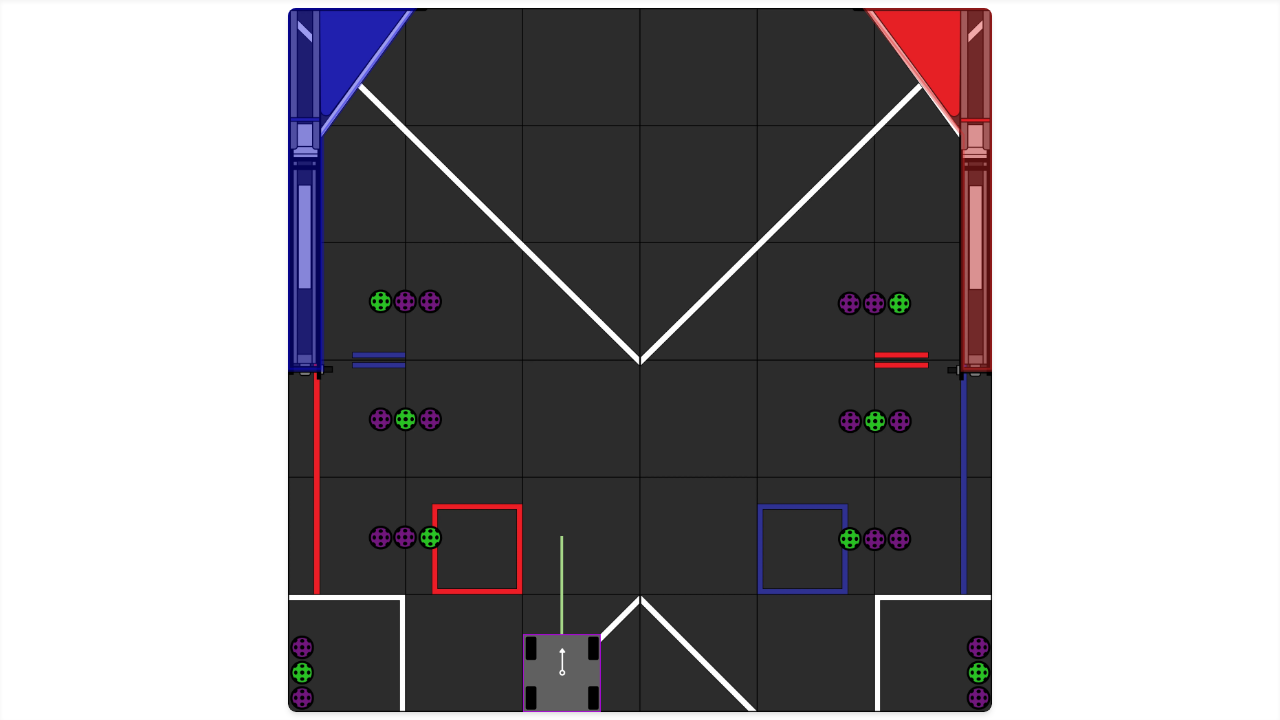
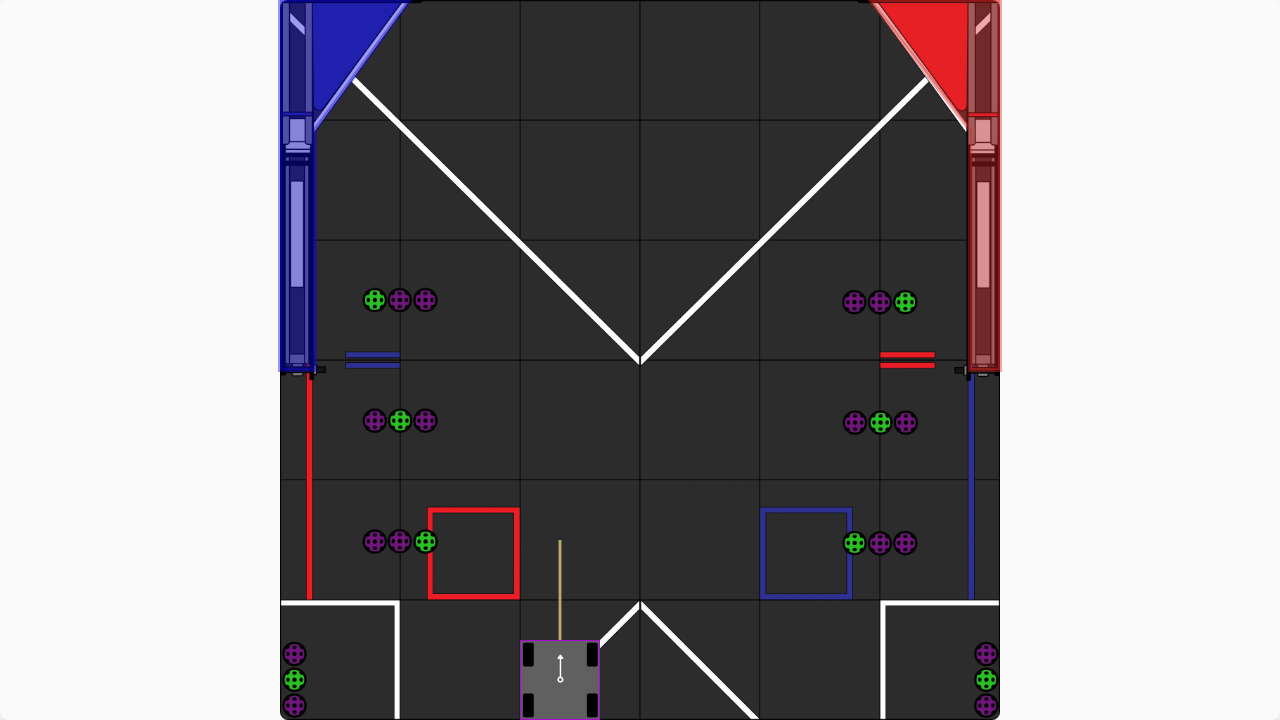
feat: add Presentation Mode

diff --git a/src/lib/components/FieldRenderer.svelte b/src/lib/components/FieldRenderer.svelte
@@ -89,19 +89,20 @@
   $: zoom = $fieldZoom;
   $: pan = $fieldPan;
   $: scaleFactor = zoom;
+  $: baseSize = Math.min(width, height);
   $: x = d3
     .scaleLinear()
     .domain([0, FIELD_SIZE])
     .range([
-      width / 2 - (width * scaleFactor) / 2 + pan.x,
-      width / 2 + (width * scaleFactor) / 2 + pan.x,
+      width / 2 - (baseSize * scaleFactor) / 2 + pan.x,
+      width / 2 + (baseSize * scaleFactor) / 2 + pan.x,
     ]);
   $: y = d3
     .scaleLinear()
     .domain([0, FIELD_SIZE])
     .range([
-      height / 2 + (height * scaleFactor) / 2 + pan.y,
-      height / 2 - (height * scaleFactor) / 2 + pan.y,
+      height / 2 + (baseSize * scaleFactor) / 2 + pan.y,
+      height / 2 - (baseSize * scaleFactor) / 2 + pan.y,
     ]);
 
   function zoomTo(newZoom: number, focus?: { x: number; y: number }) {
@@ -110,18 +111,35 @@
     // Compute field coordinates at the focus point using current scales
     const fieldX = x.invert(fx);
     const fieldY = y.invert(fy);
-    const pan = computePanForZoom({
-      width,
-      height,
-      fieldSize: FIELD_SIZE,
-      newZoom,
-      focusScreenX: fx,
-      focusScreenY: fy,
-      fieldX,
-      fieldY,
-    });
+    // Use baseSize (min dimension) for consistent zoom calculation logic if assumed square field mapping
+    // But computePanForZoom expects width/height of viewport?
+    // Let's stick to using the actual viewport dimensions for zoomTo focus point calculations.
+    // However, the field scaling is driven by baseSize.
+    // We need to check computePanForZoom implementation. Assuming it works with current x/y scales inversions.
+    // Actually, computePanForZoom needs to know the "fieldDrawSize" effectively.
+    // But if we use x.invert / y.invert correctly, we get field coords.
+    // The pan calculation might need adjustment if it assumes width==height==fieldSize.
+    // Let's rely on x/y inversion which accounts for baseSize.
+
+    // Re-implement simplified pan calculation here since computePanForZoom might be rigid.
+    // Target: at newZoom, (fieldX, fieldY) should be at (fx, fy).
+    // x_new(fieldX) = width/2 + (fieldX_norm - 0.5) * baseSize * newZoom + newPanX = fx
+    // where fieldX_norm = fieldX / FIELD_SIZE (approx, ignoring domain start).
+    // Actually simpler:
+    // current: x(fieldX) = width/2 + offset_x + pan.x = fx
+    // target:  x_new(fieldX) = width/2 + offset_x_new + newPanX = fx
+    // offset_x = (fieldX mapped to centered 0-based scaled coord)
+    // Let's trust the existing helper if it is generic enough, or recalculate manually.
+
+    // Manual calculation to be safe with non-square viewport:
+    // fx = width/2 + (fieldX/FIELD_SIZE - 0.5) * baseSize * newZoom + newPanX
+    // newPanX = fx - width/2 - (fieldX/FIELD_SIZE - 0.5) * baseSize * newZoom
+
+    const newPanX = fx - width/2 - (fieldX/FIELD_SIZE - 0.5) * baseSize * newZoom;
+    const newPanY = fy - height/2 - (0.5 - fieldY/FIELD_SIZE) * baseSize * newZoom;
+
     fieldZoom.set(Number(newZoom.toFixed(2)));
-    fieldPan.set(pan);
+    fieldPan.set({x: newPanX, y: newPanY});
   }
 
   function handleWheel(e: WheelEvent) {
@@ -149,7 +167,7 @@
 
   // Visual Scale (Pixels per Inch at 1x Zoom)
   // Used for UI elements (points, markers) so they don't grow when zooming in
-  $: ppI = width / FIELD_SIZE;
+  $: ppI = baseSize / FIELD_SIZE;
   $: uiLength = (inches: number) => inches * ppI;
 
   // Derived Values from Stores
@@ -1441,7 +1459,7 @@
 </script>
 
 <div
-  class="relative aspect-square"
+  class="relative"
   style={`width: ${width}px; height: ${height}px;`}
   bind:this={wrapperDiv}
   on:wheel={(e) => handleWheel(e)}

diff --git a/src/App.svelte b/src/App.svelte
@@ -978,6 +978,9 @@
     return Math.max(100, Math.min(avW, avH));
   })();
 
+  $: fieldRenderWidth = $isPresentationMode ? mainContentWidth : fieldDrawSize;
+  $: fieldRenderHeight = $isPresentationMode ? mainContentHeight : fieldDrawSize;
+
   // Compute a target height for the field container so it can animate smoothly
   // when the sidebar (control tab) opens/closes in vertical mode
   $: fieldContainerTargetHeight = (() => {
@@ -1232,8 +1235,8 @@
       >
         <FieldRenderer
           bind:this={fieldRenderer}
-          width={fieldDrawSize}
-          height={fieldDrawSize}
+          width={fieldRenderWidth}
+          height={fieldRenderHeight}
           {timePrediction}
           {previewOptimizedLines}
           {onRecordChange}
